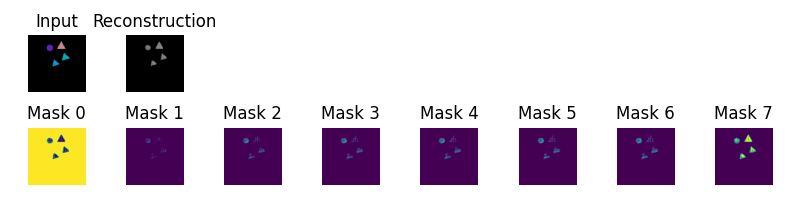
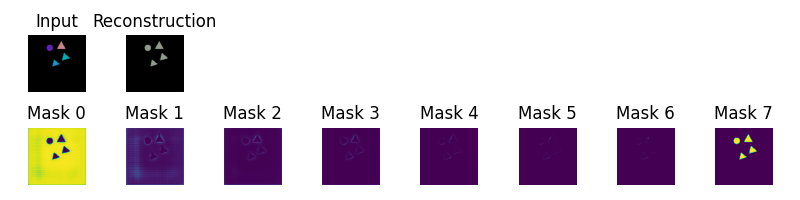
add GECO

diff --git a/train_val.py b/train_val.py
@@ -126,7 +126,29 @@ def vis_monet(images, masks, reconstructions, masks_list=None, save_dir='./vis',
         plt.close()
         print(f"Saved monet visualization to {save_path}")
 
-def train_constellation(constellation, data, optimizer, epoch):
+def constraint_fn(recon_loss):  # L2 리컨 오차가 특정 값 이하로 유지
+    return recon_loss.mean() - 0.5 #target_constraint: κ ∈ {0.06, 0.08, 0.1, 0.125, 0.175}
+
+def train_constellation(constellation, data, optimizer, epoch, log_lambda, C_ma, constraint_fn, alpha=0.99, lr=1e-4):
+    """
+    GECO 알고리즘 한 배치 업데이트 함수
+
+    Args:
+        model: PyTorch 모델
+        x: 입력 배치 (Tensor)
+        optimizer: 모델 파라미터용 옵티마이저
+        log_lambda: 라그랑주 승수의 로그값 (Tensor, requires_grad=True 아님)
+        C_ma: 이전까지의 제약 조건 moving average (float 또는 Tensor)
+        constraint_fn: 제약 조건을 계산하는 함수 (x, recon_x) -> Tensor
+        alpha: moving average 하이퍼파라미터
+        lr: 학습률 (옵티마이저 lr과 별도)
+        device: 연산 디바이스
+
+    Returns:
+        loss_value: 현재 배치 손실(float)
+        updated_log_lambda: 업데이트된 log_lambda (Tensor)
+        updated_C_ma: 업데이트된 moving average (Tensor)
+    """
     constellation.train()
 
     if use_cuda:
@@ -137,11 +159,31 @@ def train_constellation(constellation, data, optimizer, epoch):
     # o=zs (128,8,16)
     
     a_hat, mu, logvar = constellation.module.decode(r)
-    loss = loss_fn.total_loss(a, a_hat, mu_q, logvar_q, o, learned_mask)
+    loss ,recon_loss= loss_fn.total_loss(a, a_hat, mu_q, logvar_q, o, learned_mask)
+    
+    print(f"total loss: {loss.item()}")
+    print(f"recon_loss: {recon_loss.item()}")
+
     loss.backward()
     optimizer.step()
 
+    C_hat=constraint_fn(recon_loss)
+    if C_ma is None:
+        C_ma_new=C_hat.detach()
+    else: C_ma_new=alpha * C_ma + (1-alpha) * C_hat.detach()
+
+    C_t = C_hat + (C_ma_new - C_hat).detach()
+    
+    loss=(loss-recon_loss)+ torch.exp(log_lambda)*C_t
+
+    loss.backward()
+    optimizer.step()
+
+    with torch.no_grad():
+        log_lambda = log_lambda + lr * C_t.detach()
+
     wandb.log({"Loss/train_constellation": loss.item(), "epoch": epoch}) #wandb 기록
+    wandb.log({"rec_Loss/train_constellation": recon_loss.item(), "epoch": epoch}) #wandb 기록
 
     return loss.item()
 
@@ -229,81 +271,6 @@ def vis_constellation(images, a, r, a_hat, masks_list, o, save_dir='./vis', pref
         plt.close()
         print(f"Saved constealltion visualization to {save_path}")
 
-# def monet_geco_step(model, x, optimizer, log_lambda, C_ma, constraint_fn, alpha=0.99, lr=1e-4): #device= 부분 수정,,?
-#     """
-#     GECO 알고리즘 한 배치 업데이트 함수
-
-#     Args:
-#         model: PyTorch 모델
-#         x: 입력 배치 (Tensor)
-#         optimizer: 모델 파라미터용 옵티마이저
-#         log_lambda: 라그랑주 승수의 로그값 (Tensor, requires_grad=True 아님)
-#         C_ma: 이전까지의 제약 조건 moving average (float 또는 Tensor)
-#         constraint_fn: 제약 조건을 계산하는 함수 (x, recon_x) -> Tensor
-#         alpha: moving average 하이퍼파라미터
-#         lr: 학습률 (옵티마이저 lr과 별도)
-#         device: 연산 디바이스
-
-#     Returns:
-#         loss_value: 현재 배치 손실(float)
-#         updated_log_lambda: 업데이트된 log_lambda (Tensor)
-#         updated_C_ma: 업데이트된 moving average (Tensor)
-#     """
-#     model.train()
-#     optimizer.zero_grad()
-
-#     # 모델에서 재구성, 잠재평균, 로그분산 반환 (VAE 구조)
-#     output = model(x)
-#     # recon_loss=output['recon_loss']
-#     # kl_loss=output['kl_loss']
-#     # masks_loss=output['masks_loss']
-#     recon_loss = torch.clamp(output['recon_loss'], max=50000)
-#     kl_loss = torch.clamp(output['kl_loss'], max=50000)
-#     masks_loss = torch.clamp(output['masks_loss'], max=50000)
-
-#     print("recon_loss:",recon_loss.mean().item())
-#     print("kl_loss:",kl_loss.mean().item())
-#     print("masks_loss:",masks_loss.mean().item())
-
-
-#     # constraint로 reconstruction loss 계산
-#     C_hat = monet_constraint_fn(recon_loss)
-
-#     # moving average 업데이트
-#     if C_ma is None:
-#         C_ma_new = C_hat.detach()
-#     else:
-#         C_ma_new = alpha * C_ma + (1 - alpha) * C_hat.detach()
-
-#     C_t = C_hat + (C_ma_new - C_hat).detach()
-
-#     # 최종 손실 = KL + λ * 제약 (reconstruction loss)
-#     beta=torch.clamp(torch.exp(log_lambda), min=0.01) #beta값이 너무 작아지는 것을 방지
-#     loss = kl_loss + beta* C_t + masks_loss
-#     print("lambda (beta):", beta.item())
-#     print("C_t:", C_t.item())
-#     print()
-#     loss=loss.mean()
-
-#     loss.backward()
-
-#     torch.nn.utils.clip_grad_norm_(monet.parameters(), max_norm=1.0)
-
-#     optimizer.step()
-
-#     #with torch.no_grad():
-#     log_lambda =log_lambda + lr * C_t.detach()
-
-#     wandb.log({"Loss/train_monet": loss.item(), "epoch": epoch}) #wandb 기록
-
-#     return loss.item(), log_lambda, C_ma_new, C_t, output
-
-# def monet_constraint_fn(recon_loss):
-#     # 예: L2 리컨 오차가 특정 값 이하로 유지
-#     return recon_loss.mean() - 5000 #target_constraint: κ ∈ {0.06, 0.08, 0.1, 0.125, 0.175}
-
-
-
 #데이터셋 있으면 있는거 사용, 없으면 make_sprites
 dataset = datasets.Sprites(conf.data_dir, mode='train', transform=transform)
 val_dataset= datasets.Sprites(conf.data_dir, mode='val', transform=transform)
@@ -376,7 +343,7 @@ for param in monet.parameters():
 
 
 # constellation pt 로드
-ckpt_path = os.path.join(conf.checkpoint_dir, f'constellation_{conf.data_num}.ckpt')
+ckpt_path = os.path.join(conf.checkpoint_dir, f'constellation_{conf.data_num}_{conf.beta}.ckpt')
 
 if os.path.isfile(ckpt_path):
     constellation.load_state_dict(torch.load(ckpt_path))
@@ -387,13 +354,17 @@ else: #없으면 train constellation
     best_val_loss=float('inf')
     for epoch in range(num_epochs): #train constellation 루프
         train_loss=0
+        log_lambda = torch.tensor([0.0], device=device)  # 초기값 #77
+        C_ma = None #77
+
         for batch in data_loader:
             x, _ = batch
             if use_cuda:
                 x = x.cuda()
 
             # Train MONet
-            batch_loss=train_constellation(constellation, x, optimizer, epoch)
+                
+            batch_loss=train_constellation(constellation, x, optimizer, epoch, log_lambda, C_ma, constraint_fn)
             train_loss+=batch_loss
 
         train_loss/=len(data_loader)

diff --git a/config.py b/config.py
@@ -36,7 +36,7 @@ MonetConfig = namedtuple('MonetConfig', config_options)
 sprite_config = MonetConfig(data_num=100000, #n=100000 #test할때 1500장으로 하는거 추천
                             vis_every=50, #몇개마다 visualization할건지
                             batch_size=64, #논문: 64
-                            num_epochs=30, #논문에서는 모든 실험 1000000 iteration 이상 진행
+                            num_epochs=20, #논문에서는 모든 실험 1000000 iteration 이상 진행
                             load_parameters=True,
                             checkpoint_file='./checkpoints/monet.ckpt', #나중에 없애는게 목표
                             checkpoint_dir='./checkpoints',
@@ -47,7 +47,7 @@ sprite_config = MonetConfig(data_num=100000, #n=100000 #test할때 1500장으로
                             channel_base=128, #64
                             bg_sigma=0.09, #background sigma, 1번째 슬롯에만 쓰이는 파라미터, 잘 조절하면 slot1에 배경색만 나오게된다. (논문: 0.09)
                             fg_sigma=0.11, #논문: 0.11
-                            beta=1.0, #monet 논문 0.5 #인겸님 코드 8.0
+                            beta=1.5, #monet 논문 0.5 #인겸님 코드 8.0
                             gamma=0.5, #monet 논문 0.5
                             vae_sigma=0.05, #논문 0.05  #(?)
                             vae_beta=0.5, #논문 0.5  #(?)

diff --git a/models_vae.py b/models_vae.py
@@ -228,7 +228,7 @@ class DecoderNet(nn.Module):
             nn.ReLU(inplace=True),
             nn.Conv2d(32, 4, 1),
         )
-        ys = torch.linspace(-1, 1, self.height + 8)
+        ys = torch.linspace(-1, 1, self.height + 8) #padding 없이 convolution하기 위해
         xs = torch.linspace(-1, 1, self.width + 8)
         ys, xs = torch.meshgrid(ys, xs, indexing='xy')
         coord_map = torch.stack((ys, xs)).unsqueeze(0)
@@ -715,7 +715,7 @@ class LossFunctions(nn.Module):
         L_reorder = self.reordering_loss(a_hat)
 
         L_total = L_rec + L_reorder + L_kl + L_entropy + L_condition
-        return L_total
+        return L_total, L_rec
 
 # class GECO(nn.Module):
 #     def __init__(self, tolerance=0.05, alpha=0.99, lambda_step=1e-2):
